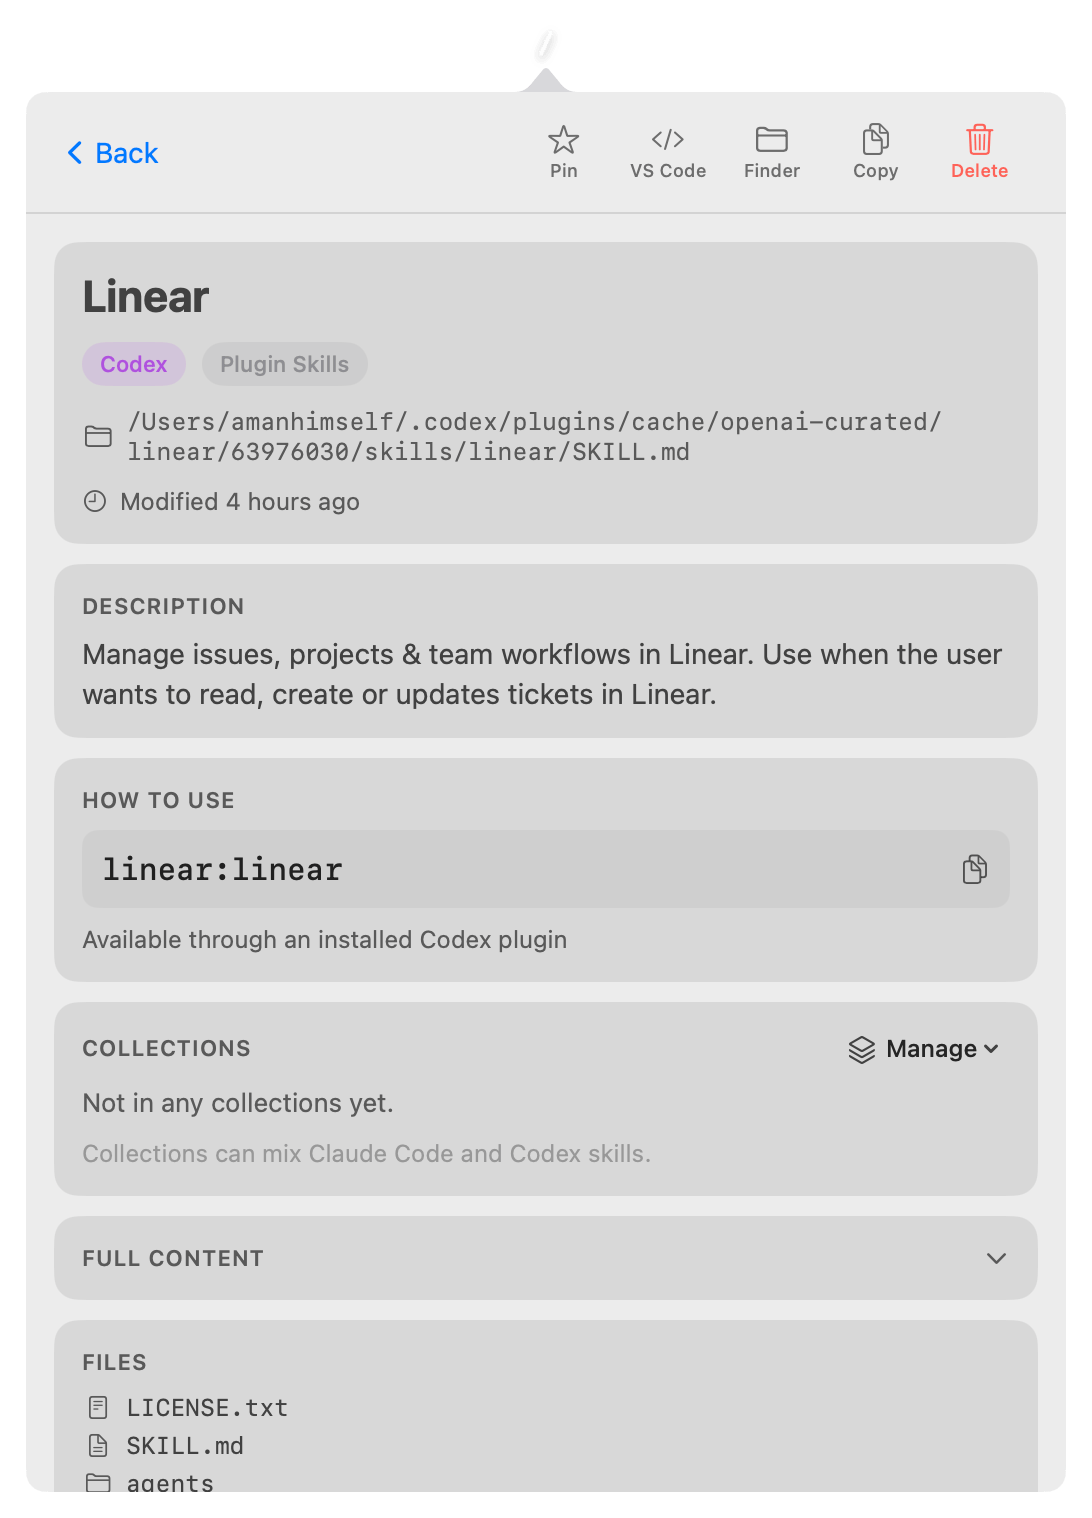
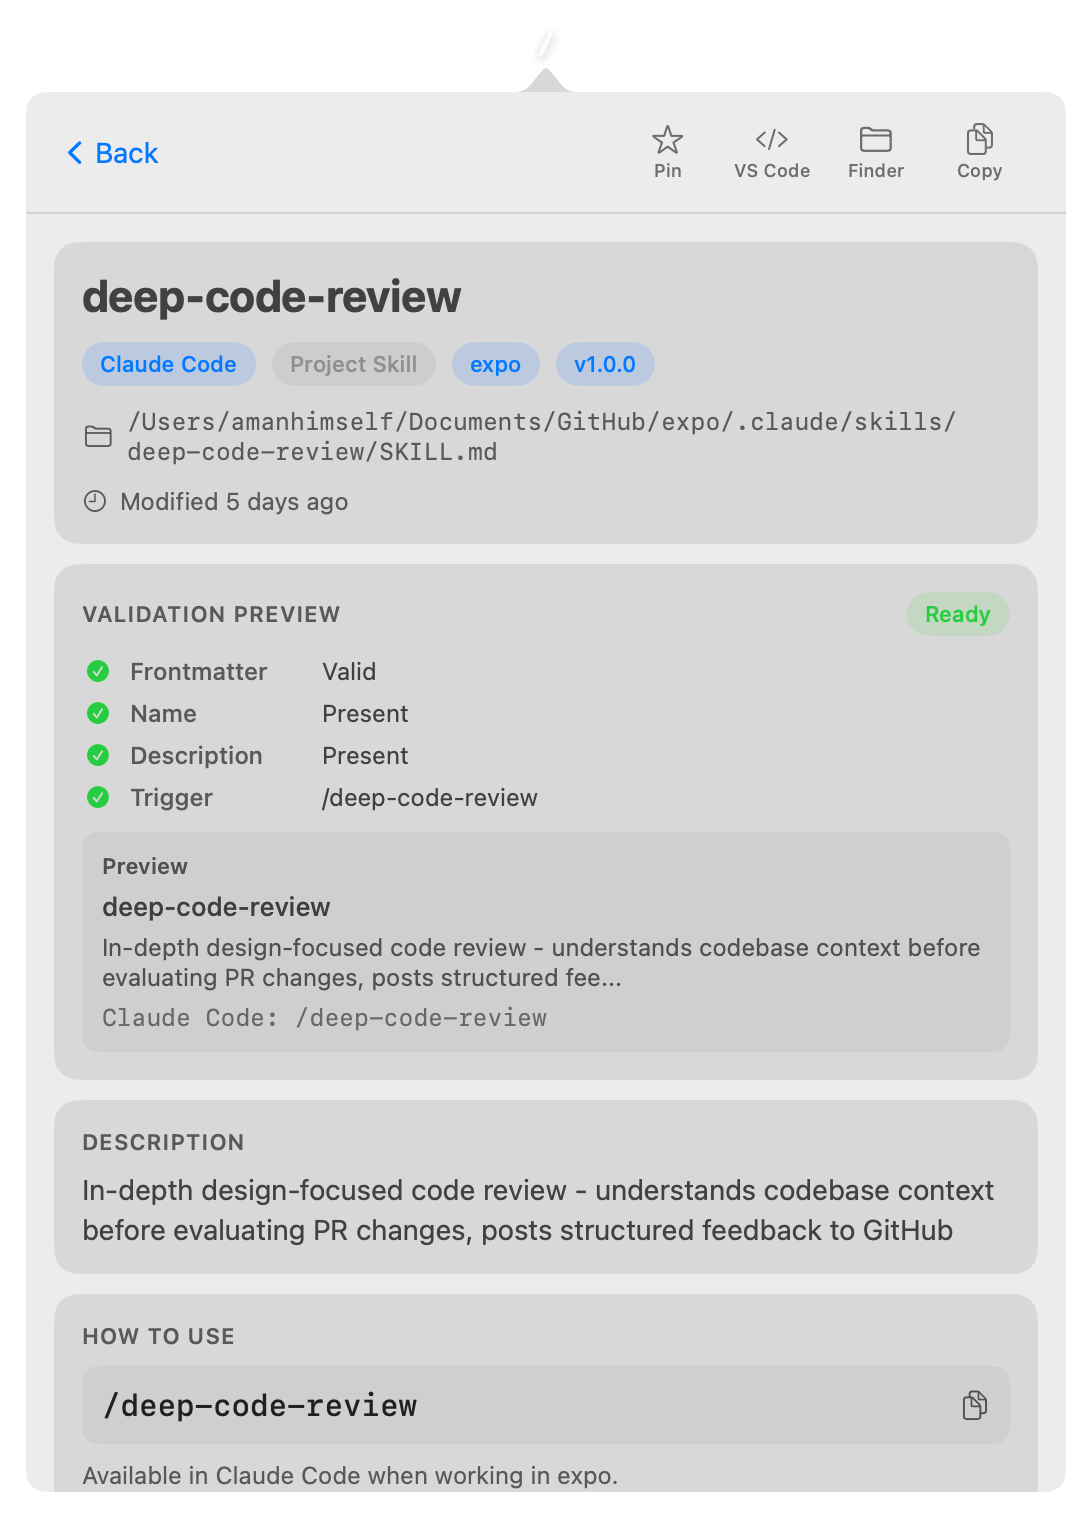
Update screenshots

diff --git a/README.md b/README.md
@@ -29,7 +29,7 @@
   &nbsp;&nbsp;
   <img src="screenshots/plugin-detail.png" width="320" alt="Plugin detail view" />
   &nbsp;&nbsp;
-  <img src="screenshots/skill-detail.png" width="320" alt="Skill detail view" />
+  <img src="screenshots/skill-detail.png" width="320" alt="Project skill detail view" />
   &nbsp;&nbsp;
   <img src="screenshots/instructions-menu.png" width="320" alt="Global instructions menu" />
   &nbsp;&nbsp;